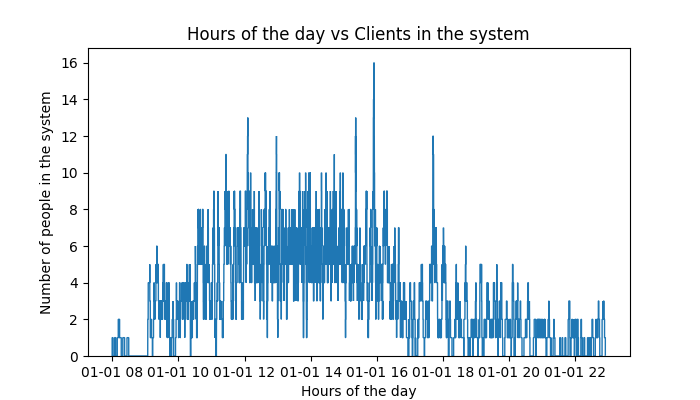
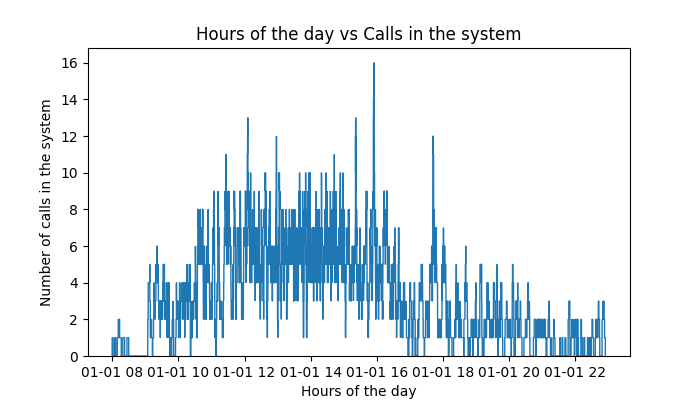
added separate queue

Changed region(s): [[0.27, 0.06, 0.75, 0.12], [0.06, 0.24, 0.09, 0.78]]

diff --git a/callcenter/CallCenter.py b/callcenter/CallCenter.py
@@ -46,8 +46,12 @@ class CallCenter:
         self.opening_hour = TimeHelper.string_to_hour('08:00:00')
         self.closing_hour = TimeHelper.string_to_hour('23:00:00')
         self.n_restaurants = 1_000
-        self.call_queue = CallQueue(self.mode)
-        self.chat_queue = ChatQueue(self.mode)
+        if self.mode == "SeparatePool":
+            self.call_queue = CallQueue("PriorityQueue")
+            self.chat_queue = ChatQueue("PriorityQueue")
+        else:
+            self.call_queue = CallQueue(self.mode)
+            self.chat_queue = ChatQueue(self.mode)
         self.n_rest_in_queue = 0
         self.rest_call_proportion = 0.03  # 3% of all calls belong to restaurants
         self.weather = self.user_parameters.get("Weather").lower()
@@ -59,16 +63,15 @@ class CallCenter:
         Probabilities.rain_factor = float(self.user_parameters.get("Rain Factor"))
         Probabilities.holiday = self.user_parameters.get("Holiday")
         if self.mode == 'SeparatePool':
-            percentage_of_rest_agents = 0.2  # 20% of the agents will answer calls from restaurants
-            self.n_rest_agents = math.ceil(
-                self.starting_number_of_agents * percentage_of_rest_agents)  # At least 1 agent
-            self.n_end_client_agents = self.starting_number_of_agents - self.n_rest_agents  # Other agents serve clients
-            # i % 2 condition splits half the agents for chat duty other half for calls
-            self.end_service_agents = [
-                CustomerServiceAgent(i, self.call_queue if i % 2 == 0 else self.chat_queue, self.curr_time) for i in
-                range(self.n_end_client_agents)]
-            self.rest_service_agents = [CustomerServiceAgent(i, self.call_queue, self.curr_time) for i in
-                                        range(self.n_rest_agents)]
+            self.mode = 'PriorityQueue'
+            percentage_of_rest_agents = 0.3  # 10% of the agents will answer calls from restaurants
+            n_call_agents = math.ceil(self.starting_number_of_agents * percentage_of_rest_agents)
+            #     self.starting_number_of_agents * percentage_of_rest_agents)  # At least 1 agent
+
+            self.service_agents = [CustomerServiceAgent(i, self.call_queue, self.curr_time) for i in
+                                   range(n_call_agents)]
+            for i in range(n_call_agents, self.starting_number_of_agents):
+                self.service_agents.append(CustomerServiceAgent(i, self.chat_queue, self.curr_time))
         else:  # Regular and PriorityQueue
             # i % 2 condition splits half the agents for chat duty other half for calls
             self.service_agents = [

diff --git a/callcenter/Graphs.py b/callcenter/Graphs.py
@@ -1,5 +1,4 @@
 import matplotlib.pyplot as plt
-import seaborn as sns
 import numpy as np
 
 
